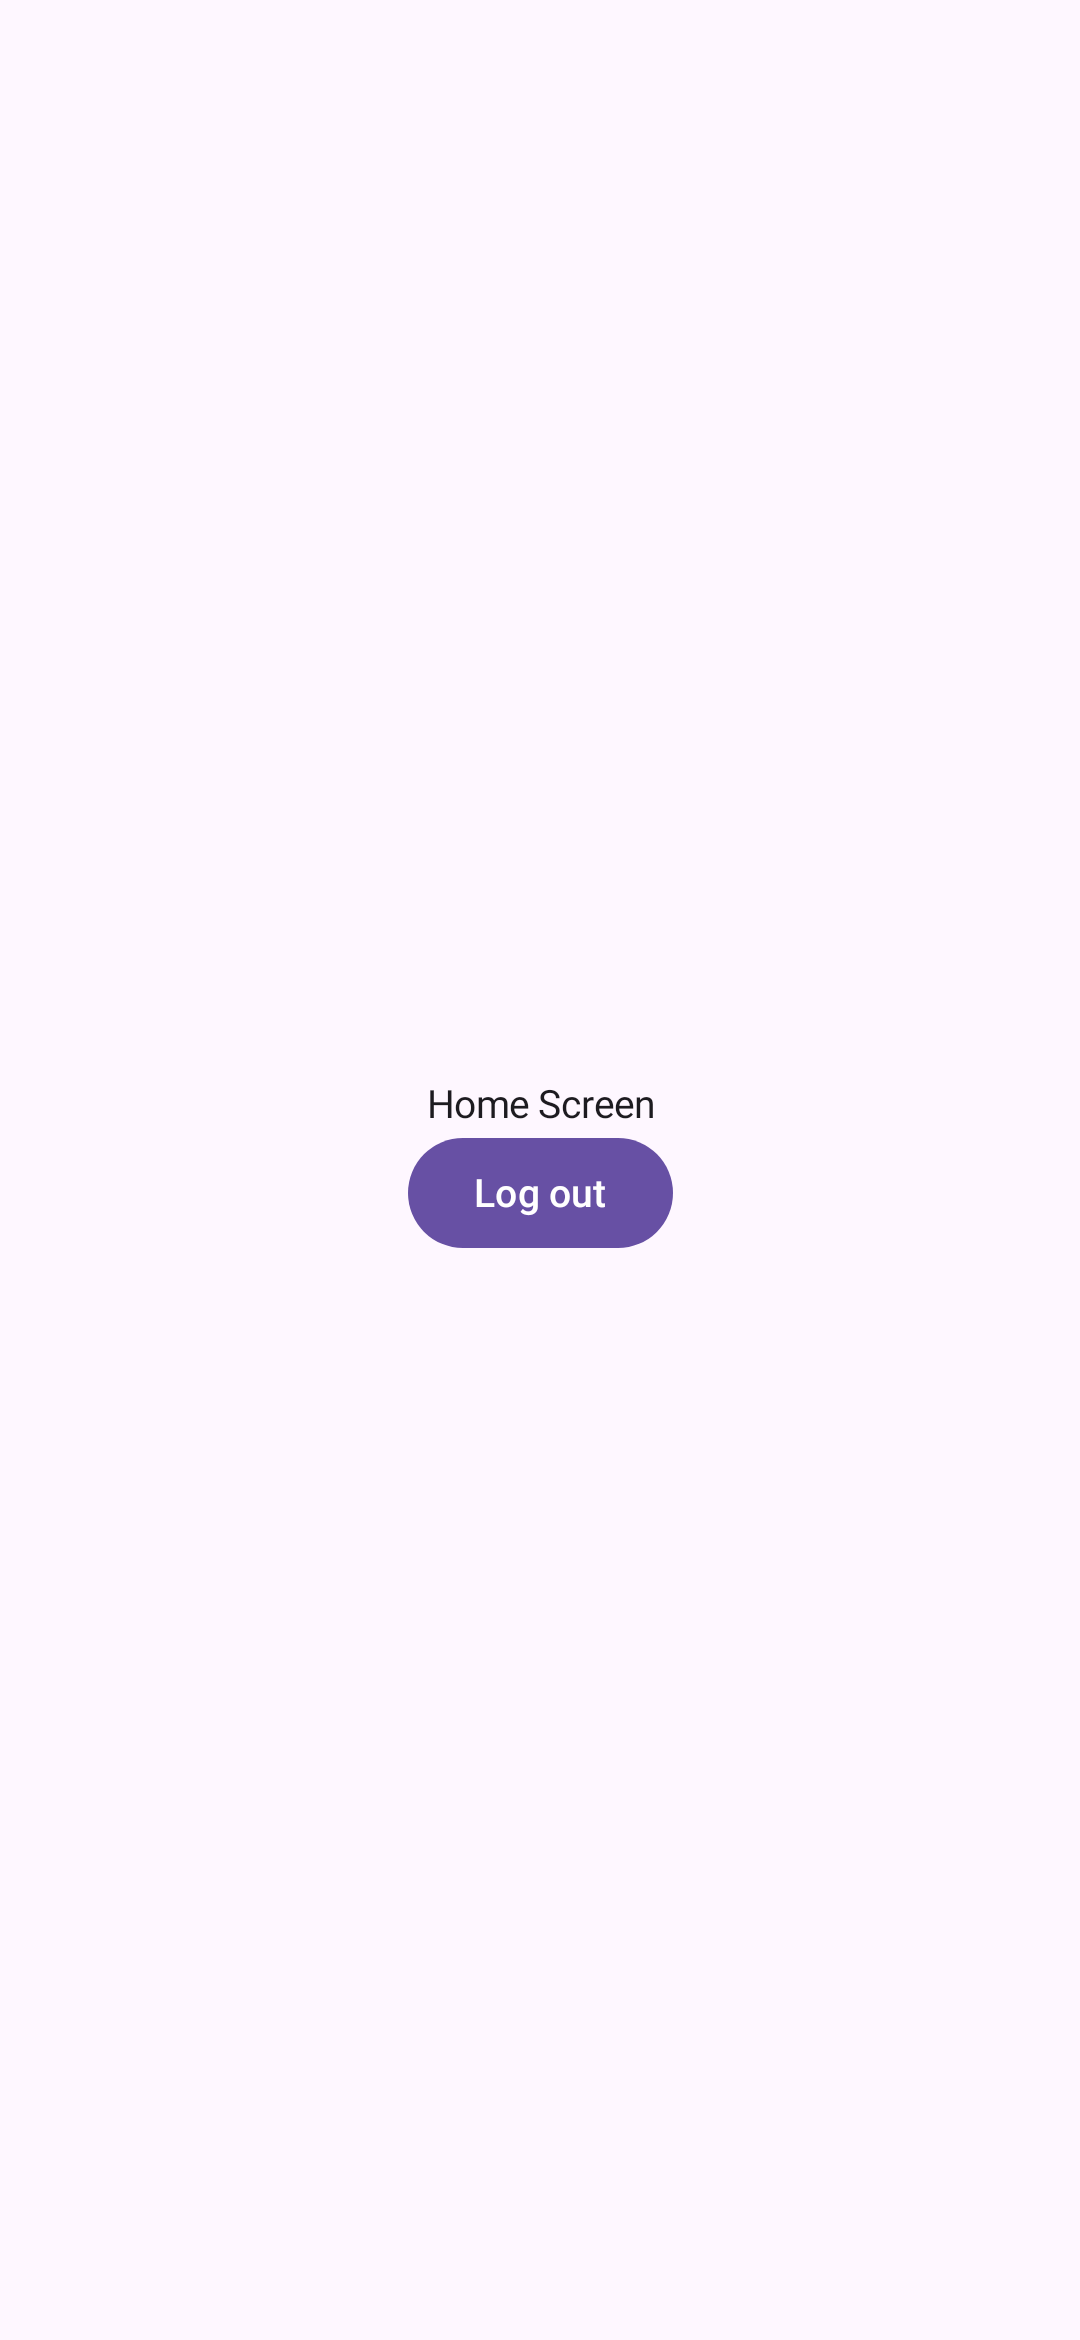
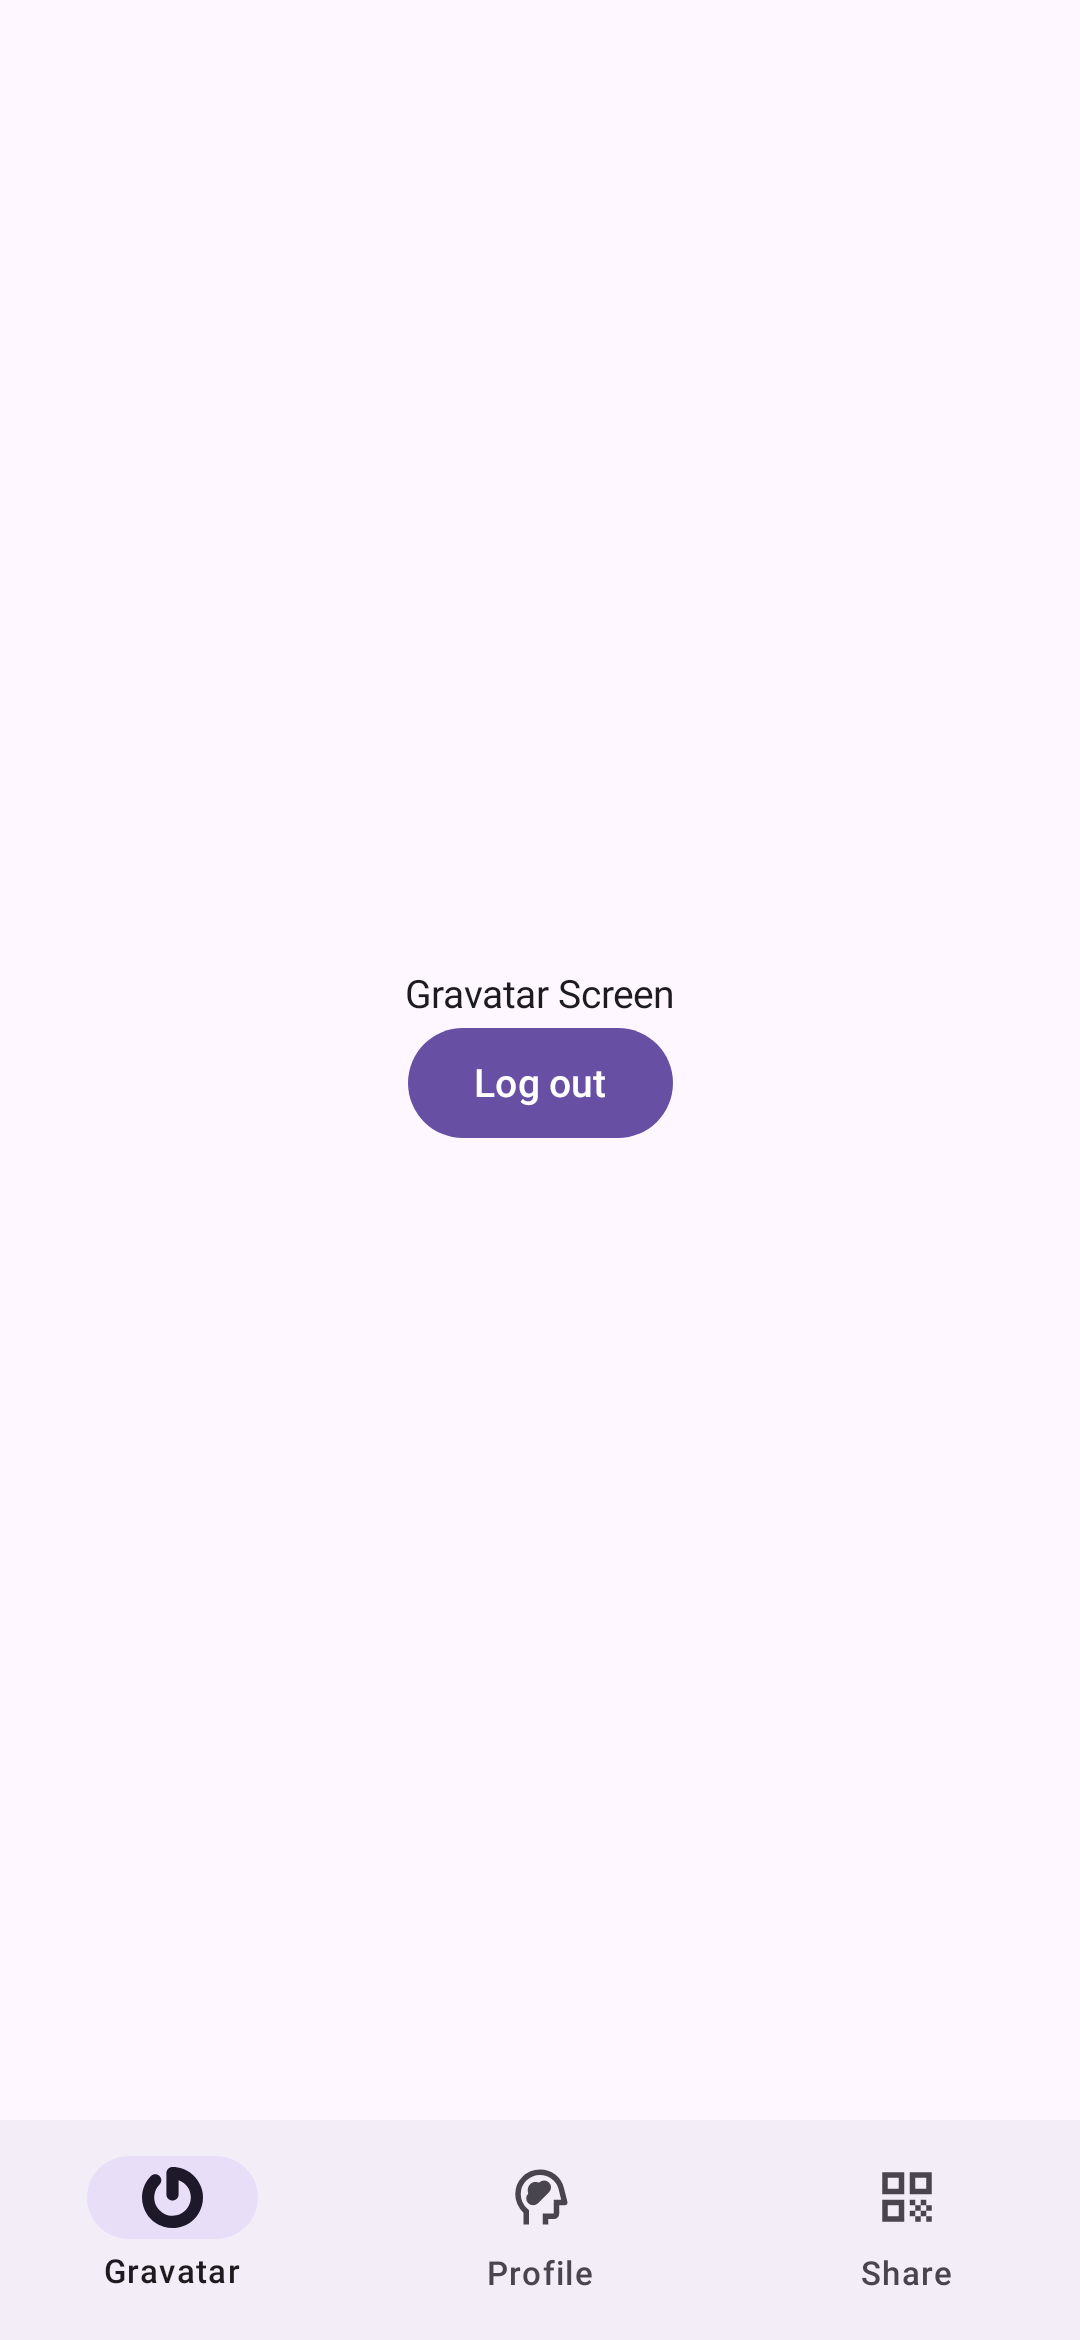
Implement NavigationBar in the HomeScreen

diff --git a/homeUi/src/main/kotlin/com/gravatar/app/homeUi/presentation/home/HomeScreen.kt b/homeUi/src/main/kotlin/com/gravatar/app/homeUi/presentation/home/HomeScreen.kt
@@ -1,41 +1,118 @@
 package com.gravatar.app.homeUi.presentation.home
 
-import androidx.compose.foundation.layout.Box
-import androidx.compose.foundation.layout.Column
-import androidx.compose.foundation.layout.fillMaxSize
 import androidx.compose.foundation.layout.padding
-import androidx.compose.material3.Button
+import androidx.compose.material3.Icon
+import androidx.compose.material3.NavigationBar
+import androidx.compose.material3.NavigationBarItem
 import androidx.compose.material3.Scaffold
 import androidx.compose.material3.Surface
 import androidx.compose.material3.Text
 import androidx.compose.runtime.Composable
-import androidx.compose.ui.Alignment
+import androidx.compose.runtime.DisposableEffect
+import androidx.compose.runtime.getValue
+import androidx.compose.runtime.mutableIntStateOf
+import androidx.compose.runtime.saveable.rememberSaveable
+import androidx.compose.runtime.setValue
 import androidx.compose.ui.Modifier
+import androidx.compose.ui.res.painterResource
+import androidx.compose.ui.res.stringResource
 import androidx.compose.ui.tooling.preview.Preview
+import androidx.navigation.NavController
+import androidx.navigation.compose.rememberNavController
+import com.gravatar.app.homeUi.R
+import com.gravatar.app.homeUi.navigation.GravatarDest
+import com.gravatar.app.homeUi.navigation.HomeNavigation
+import com.gravatar.app.homeUi.navigation.ProfileDest
+import com.gravatar.app.homeUi.navigation.ShareDest
 
 @Composable
 fun HomeScreen(
     onLoggedOut: () -> Unit,
 ) {
-    Scaffold { innerPadding ->
+    val navController = rememberNavController()
+    var selectedItem by rememberSaveable { mutableIntStateOf(0) }
+
+    DisposableEffect(navController) {
+        val listener = NavController.OnDestinationChangedListener { _, destination, _ ->
+            selectedItem = when (destination.route) {
+                GravatarDest::class.qualifiedName -> 0
+                ProfileDest::class.qualifiedName -> 1
+                ShareDest::class.qualifiedName -> 2
+                else -> selectedItem
+            }
+        }
+
+        navController.addOnDestinationChangedListener(listener)
+
+        onDispose {
+            navController.removeOnDestinationChangedListener(listener)
+        }
+    }
+
+    Scaffold(
+        bottomBar = {
+            NavigationBar {
+                NavigationBarItem(
+                    icon = {
+                        Icon(
+                            painterResource(id = R.drawable.gravatar),
+                            contentDescription = stringResource(R.string.gravatar)
+                        )
+                    },
+                    label = { Text(stringResource(R.string.gravatar)) },
+                    selected = selectedItem == 0,
+                    onClick = {
+                        if (selectedItem != 0) {
+                            navController.navigate(GravatarDest) {
+                                popUpTo(navController.graph.startDestinationId)
+                                launchSingleTop = true
+                            }
+                        }
+                    }
+                )
+                NavigationBarItem(
+                    icon = {
+                        Icon(
+                            painterResource(id = R.drawable.profile_icon),
+                            contentDescription = stringResource(R.string.profile)
+                        )
+                    },
+                    label = { Text(stringResource(R.string.profile)) },
+                    selected = selectedItem == 1,
+                    onClick = {
+                        if (selectedItem != 1) {
+                            navController.navigate(ProfileDest) {
+                                popUpTo(navController.graph.startDestinationId)
+                                launchSingleTop = true
+                            }
+                        }
+                    }
+                )
+                NavigationBarItem(
+                    icon = {
+                        Icon(
+                            painterResource(id = R.drawable.qr_code_icon),
+                            contentDescription = stringResource(R.string.share)
+                        )
+                    },
+                    label = { Text(stringResource(R.string.share)) },
+                    selected = selectedItem == 2,
+                    onClick = {
+                        if (selectedItem != 2) {
+                            navController.navigate(ShareDest) {
+                                popUpTo(navController.graph.startDestinationId)
+                                launchSingleTop = true
+                            }
+                        }
+                    }
+                )
+            }
+        }
+    ) { innerPadding ->
         Surface(
             modifier = Modifier.padding(innerPadding)
         ) {
-            Box(
-                modifier = Modifier.fillMaxSize(),
-                contentAlignment = Alignment.Center
-            ) {
-                Column(
-                    horizontalAlignment = Alignment.CenterHorizontally
-                ) {
-                    Text("Home Screen")
-                    Button(
-                        onClick = onLoggedOut
-                    ) {
-                        Text("Log out")
-                    }
-                }
-            }
+            HomeNavigation(navController, onLoggedOut)
         }
     }
 }

diff --git a/homeUi/src/main/kotlin/com/gravatar/app/homeUi/navigation/HomeNavigation.kt b/homeUi/src/main/kotlin/com/gravatar/app/homeUi/navigation/HomeNavigation.kt
@@ -1,0 +1,39 @@
+package com.gravatar.app.homeUi.navigation
+
+import androidx.compose.runtime.Composable
+import androidx.navigation.NavHostController
+import androidx.navigation.compose.NavHost
+import androidx.navigation.compose.composable
+import com.gravatar.app.homeUi.presentation.home.gravatar.GravatarScreen
+import com.gravatar.app.homeUi.presentation.home.profile.ProfileScreen
+import com.gravatar.app.homeUi.presentation.home.share.ShareScreen
+import kotlinx.serialization.Serializable
+
+@Serializable
+data object GravatarDest
+
+@Serializable
+data object ProfileDest
+
+@Serializable
+data object ShareDest
+
+@Composable
+fun HomeNavigation(
+    navController: NavHostController,
+    onLoggedOut: () -> Unit
+) {
+    NavHost(navController = navController, startDestination = GravatarDest) {
+        composable<GravatarDest> {
+            GravatarScreen(onLoggedOut)
+        }
+
+        composable<ProfileDest> {
+            ProfileScreen()
+        }
+
+        composable<ShareDest> {
+            ShareScreen()
+        }
+    }
+}

diff --git a/homeUi/src/main/kotlin/com/gravatar/app/homeUi/presentation/home/gravatar/GravatarScreen.kt b/homeUi/src/main/kotlin/com/gravatar/app/homeUi/presentation/home/gravatar/GravatarScreen.kt
@@ -1,0 +1,26 @@
+package com.gravatar.app.homeUi.presentation.home.gravatar
+
+import androidx.compose.foundation.layout.Arrangement
+import androidx.compose.foundation.layout.Column
+import androidx.compose.foundation.layout.fillMaxSize
+import androidx.compose.material3.Button
+import androidx.compose.material3.Text
+import androidx.compose.runtime.Composable
+import androidx.compose.ui.Alignment
+import androidx.compose.ui.Modifier
+
+@Composable
+fun GravatarScreen(onLoggedOut: () -> Unit) {
+    Column(
+        modifier = Modifier.fillMaxSize(),
+        verticalArrangement = Arrangement.Center,
+        horizontalAlignment = Alignment.CenterHorizontally,
+    ) {
+        Text("Gravatar Screen")
+        Button(
+            onClick = onLoggedOut
+        ) {
+            Text("Log out")
+        }
+    }
+}

diff --git a/homeUi/src/main/kotlin/com/gravatar/app/homeUi/presentation/home/profile/ProfileScreen.kt b/homeUi/src/main/kotlin/com/gravatar/app/homeUi/presentation/home/profile/ProfileScreen.kt
@@ -1,0 +1,18 @@
+package com.gravatar.app.homeUi.presentation.home.profile
+
+import androidx.compose.foundation.layout.Box
+import androidx.compose.foundation.layout.fillMaxSize
+import androidx.compose.material3.Text
+import androidx.compose.runtime.Composable
+import androidx.compose.ui.Alignment
+import androidx.compose.ui.Modifier
+
+@Composable
+fun ProfileScreen() {
+    Box(
+        modifier = Modifier.fillMaxSize(),
+        contentAlignment = Alignment.Center
+    ) {
+        Text("Profile Screen")
+    }
+}

diff --git a/homeUi/src/main/kotlin/com/gravatar/app/homeUi/presentation/home/share/ShareScreen.kt b/homeUi/src/main/kotlin/com/gravatar/app/homeUi/presentation/home/share/ShareScreen.kt
@@ -1,0 +1,18 @@
+package com.gravatar.app.homeUi.presentation.home.share
+
+import androidx.compose.foundation.layout.Box
+import androidx.compose.foundation.layout.fillMaxSize
+import androidx.compose.material3.Text
+import androidx.compose.runtime.Composable
+import androidx.compose.ui.Alignment
+import androidx.compose.ui.Modifier
+
+@Composable
+fun ShareScreen() {
+    Box(
+        modifier = Modifier.fillMaxSize(),
+        contentAlignment = Alignment.Center
+    ) {
+        Text("Share Screen")
+    }
+}